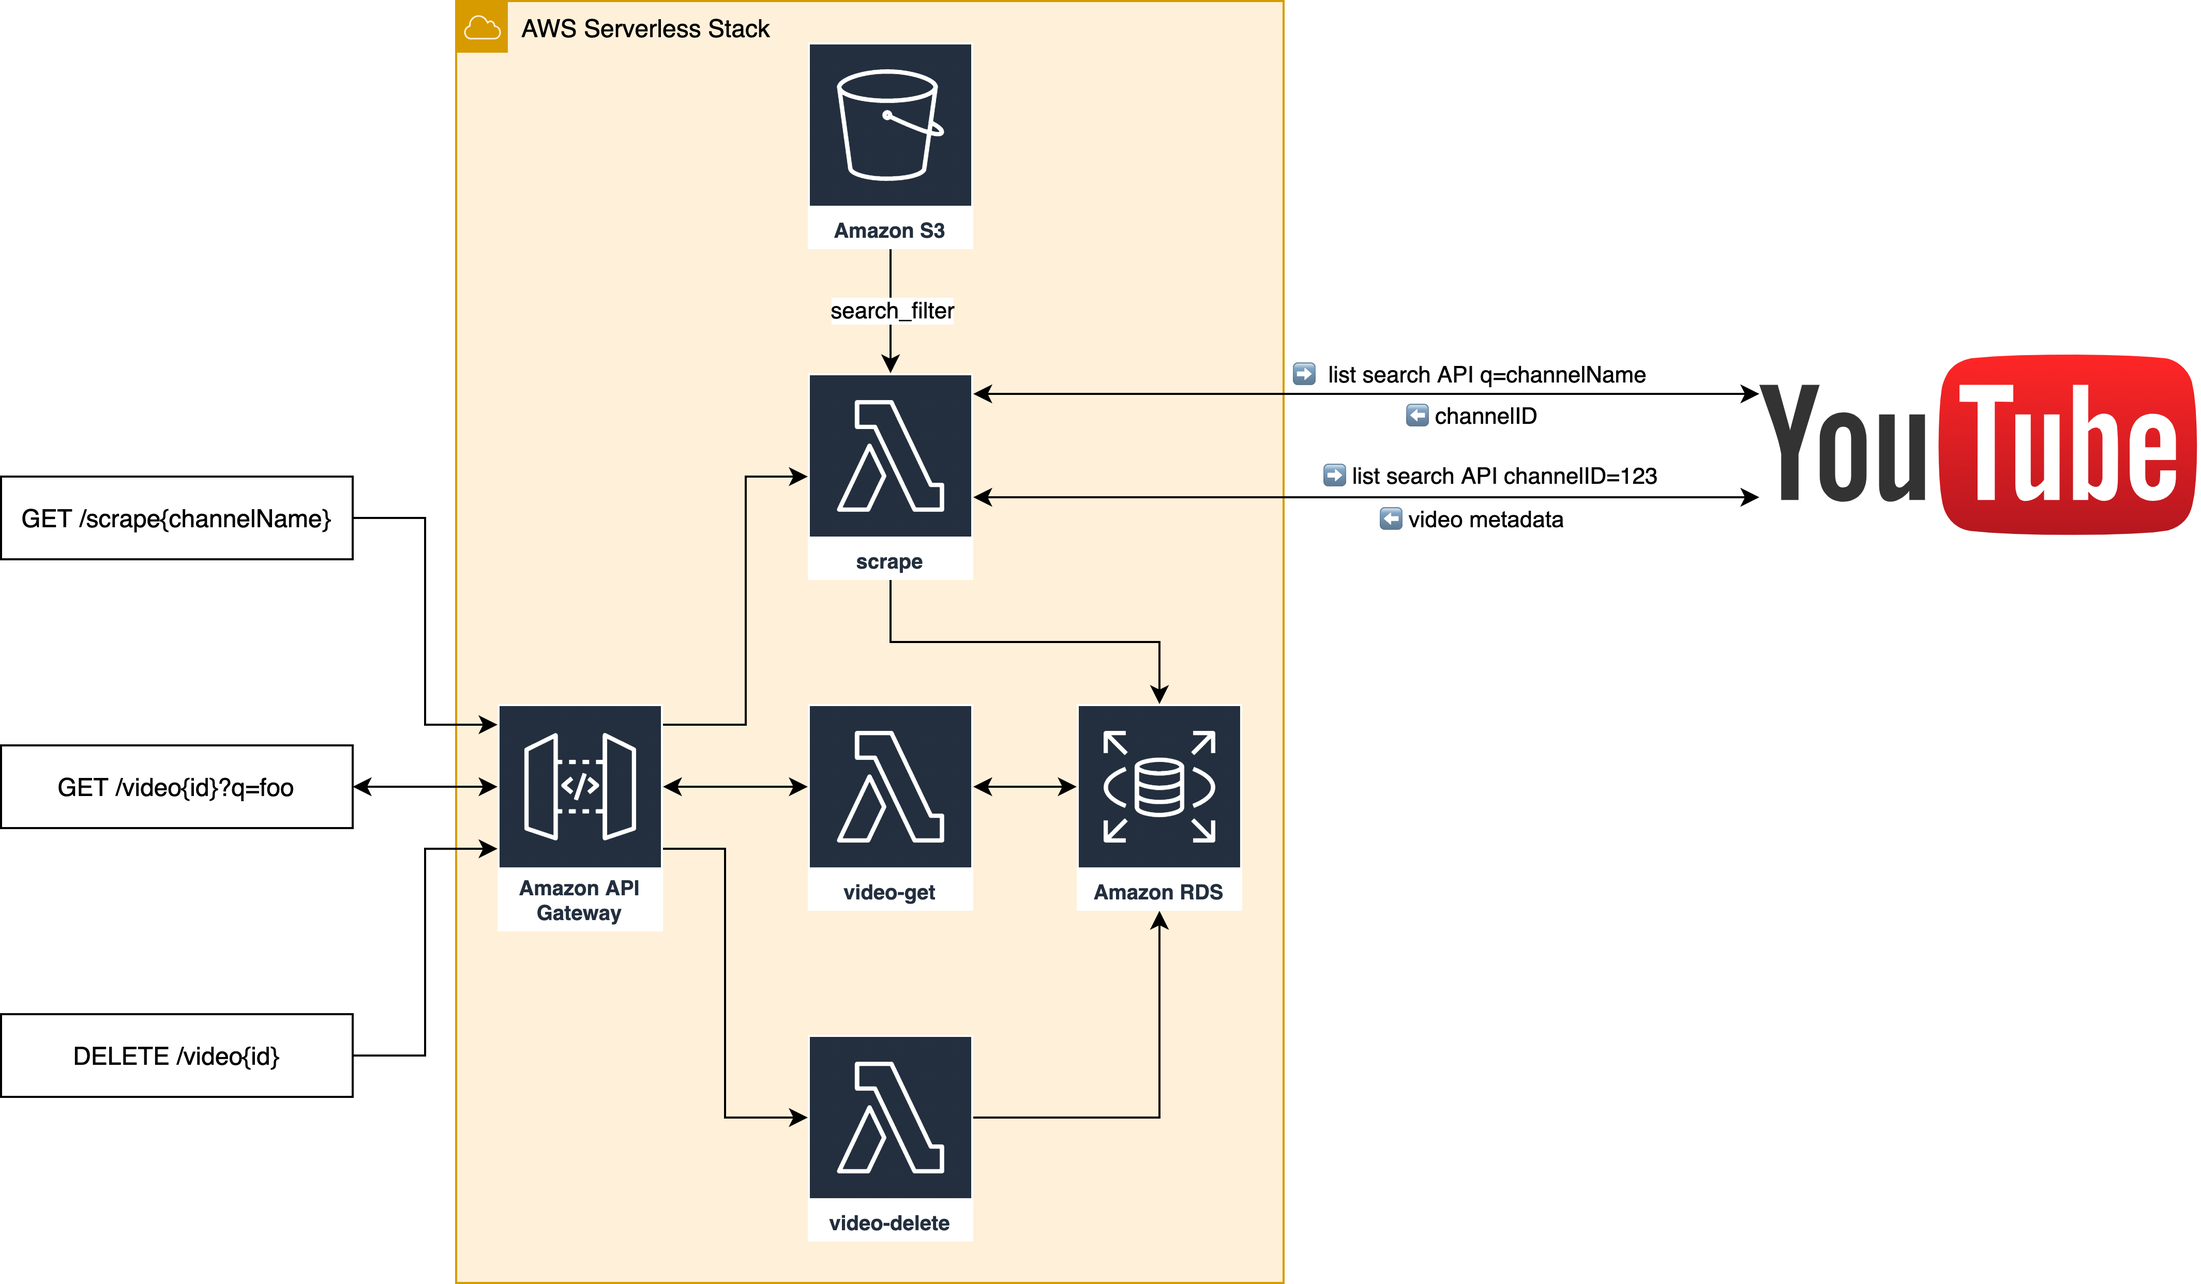
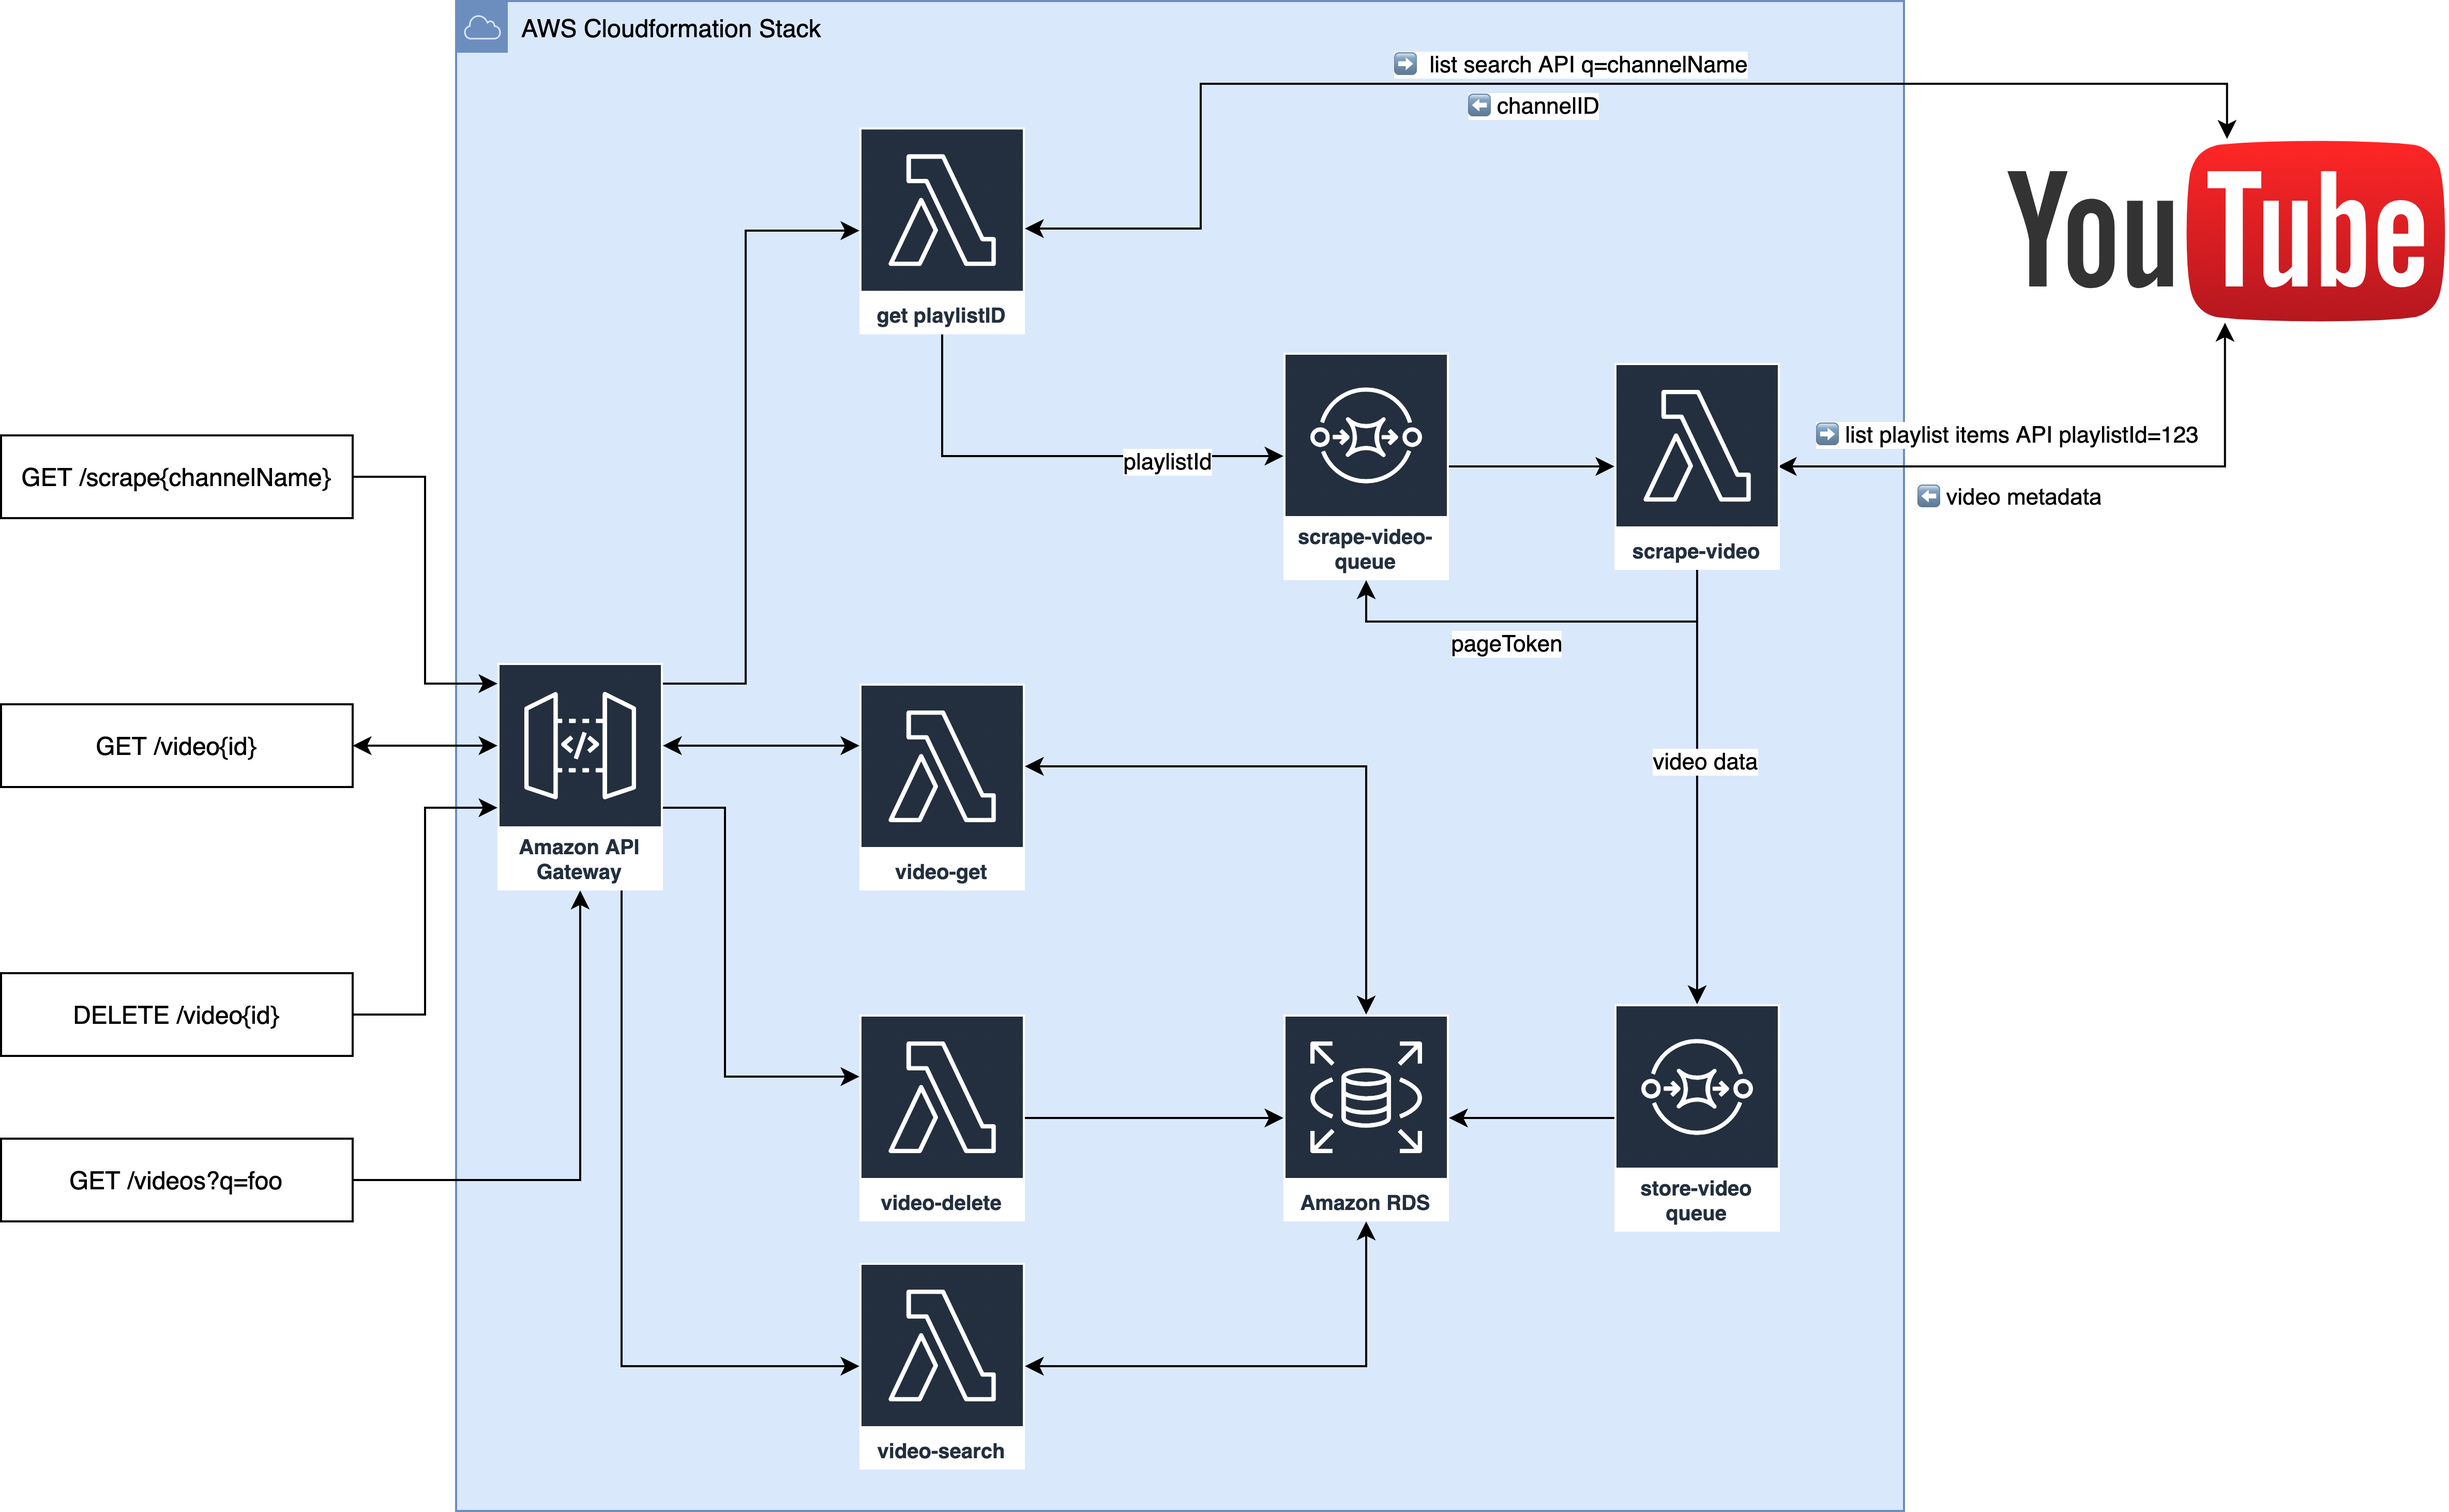
fix and update readme

diff --git a/src/handlers/api/videos-search/index.ts b/src/handlers/api/videos-search/index.ts
@@ -17,7 +17,7 @@ export const handler: APIGatewayProxyHandler = async (event): Promise<APIGateway
     const videoResults = await video.findAll({
       where: {
         title: {
-          [Op.like]: `${search}`
+          [Op.like]: `%${search}%`
         }
       },
       raw: true

diff --git a/README.md b/README.md
@@ -1,1 +1,61 @@
+# youtube-data-scraper
+
+Serverless/Typescript project. REST API to scrape metadata from all youtube videos uploaded to a channel(s), store them in a SQL database, and get/query/delete. Deployed to AWS using serverless and github actions. Lambda used for API/functions SQS for buffering/distribution, APIGateway for the API and RDS Aurora for persistence
+
+ ## Installation
+
+Checkout repo
+
+    npm install 
+
+To deploy, you'll need some AWS credentials and a google API token. You can create a `.env` file that looks like: 
+
+`GOOGLE_API_KEY=xxxxxxxxx`
+`RDS_PASSWORD=xxxxx`
+`RDS_USERNAME=xxxxx`
+
+You can choose the username and password for the RDS database. I've stored mine in github secrets (see `github/workflows/main.yml`)
+
+Currently this project cannot be run locally, it was easier and faster to develop against the real cloud environment. Next steps would be to add `serverless-offline` /`localstack`/`mountebank` and a local SQL solution to enable offline development.
+
+## Usage
+
+The base API URL is subject to change any time a deployment happens, since API gateway randomly assigns it every time, unless you pay for a custom domain name, which I've not done for this project. Contact mishabruml@gmail.com for a working API URL.
+
+  **GET** - https://43dsxyxd92.execute-api.eu-west-1.amazonaws.com/dev/scrape
+Initiates the scrape. Use a query parameter `channel` to specify a channel. You can specify more than one at a time. For example, to scrape youtube videos from `GlobalCyclingNetwork` and `globalmtb` in a single call, make a GET request to https://43dsxyxd92.execute-api.eu-west-1.amazonaws.com/dev/scrape?channel=GlobalCyclingNetwork&channel=globalmtb
+
+  **GET** - https://43dsxyxd92.execute-api.eu-west-1.amazonaws.com/dev/videos
+  Gets all videos
+  
+  **GET** - https://43dsxyxd92.execute-api.eu-west-1.amazonaws.com/dev/video/{id}
+  Get a video by id e.g. https://43dsxyxd92.execute-api.eu-west-1.amazonaws.com/dev/video/12345
+  
+  **DELETE** - https://43dsxyxd92.execute-api.eu-west-1.amazonaws.com/dev/video/{id}
+Make a DELETE HTTP request to this endpoint to delete a video by id e.g. https://43dsxyxd92.execute-api.eu-west-1.amazonaws.com/dev/video/12345
+
+  **GET** - https://43dsxyxd92.execute-api.eu-west-1.amazonaws.com/dev/videos/search
+Search for video(s) with the query parameter q, for example
+https://43dsxyxd92.execute-api.eu-west-1.amazonaws.com/dev/videos/search?q=bike 
+or
+https://43dsxyxd92.execute-api.eu-west-1.amazonaws.com/dev/videos/search?q=Yoann%20Barelli
+
+## Tests
+To run the suite;
+
+    npm test
+    
+I have provided some basic unit tests, not on all functions and files. These are to give you an idea of what I can do, and show that I am always thinking of testing, but it would of course be my preference and intention to continue in the same vein, giving deep coverage of the service, but I was spending quite a lot of time on this already! 
+
+## Design/how it works
+
 ![youtube-data-scraper system diagram](/images/youtube-data-scraper.png)
+
+The system is designed around serverless and AWS and so has the usual resilience/scalability/availability that you'd expect from these platforms and patterns. A request to the scrape playlist ids endpoint will obtain upload playlist ids for a given array of youtube channel search strings, using youtubes search api. These playlist ids are sent to an SQS queue where they are consumed by another lambda, scrape-videos, where another youtube API (list playlist items) is performed to grab videos from that upload playlist. This API will only give 50 results max per call, and given there are 1000s of videos on the GCN/GlobalMTB channels, it was necessary to paginate the results; this was done by sending the playlistId and pageToken back to the queue which gave a fast and horizontally scalable way to traverse the results pages.
+
+The scrape-videos lambda also sent processed API results (the video data we want e.g. title and publishedAt date) to a separate store-video queue, where another lambda would process the entries into the SQL database.
+
+Storage and CRUD operations was managed by sequelize, a node SQL ORM and some simple lambda wrappers and API mappings.
+
+I should note at this point that the youtube.sql file was uploaded manually to the database via the command `mysql -hxxx-host-xxx -uxxx -pxxx < youtube.sql` ahead of using the database in service. I would have automated this process but it's quite tricky within AWS/Serverless since cloudformation doesn't support running SQL as part of standing up a DB resource. It is possible with lambda custom resources e.g. https://github.com/davinod/rds-lambda but its quite a pain and a lot of work, and probably not what you wanted to see from this project.
+
